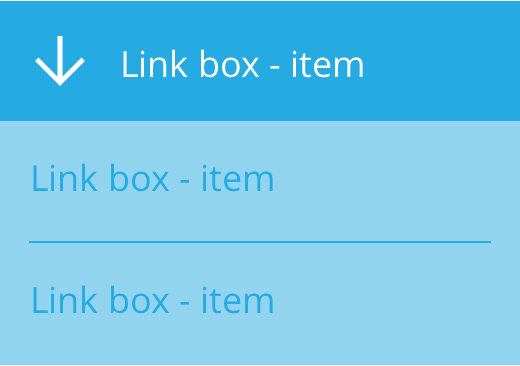
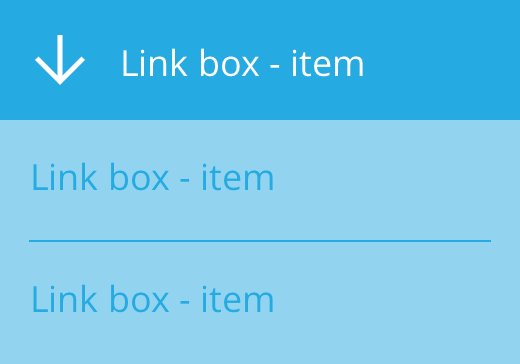
Boxes edited ( white gap at the top )

diff --git a/Components/LinkBoxes/index.html b/Components/LinkBoxes/index.html
@@ -1559,7 +1559,7 @@ var I18N = {},
     init.prototype = SMApp.fn;
     window.SMApp = SMApp;
 })(window);
-$(function(){ SMApp({"scale":"1","unit":"px","colorFormat":"color-hex","artboards":[{"layers":[{"objectID":"6D6226BD-8020-4878-B247-6483B73442A6","type":"symbol","name":"components/Link-box/group Copy 2","rect":{"x":0,"y":0,"width":260,"height":183},"rotation":0,"radius":0,"borders":[],"fills":[],"shadows":[],"opacity":1,"styleName":""},{"objectID":"C5EB7C13-B1BD-42A7-8875-49782F7475CE","type":"symbol","name":"components/Link-box/header","rect":{"x":0,"y":0,"width":260,"height":61},"rotation":0,"radius":0,"borders":[],"fills":[],"shadows":[],"opacity":1,"styleName":""},{"objectID":"8EC150BD-1D53-47E6-B358-56D3957D0FED","type":"shape","name":"Rectangle","rect":{"x":0,"y":0.5,"width":260,"height":60},"rotation":0,"radius":0,"borders":[],"fills":[{"fillType":"color","color":{"r":37,"g":170,"b":225,"a":1,"color-hex":"#25AAE1 100%","argb-hex":"#FF25AAE1","css-rgba":"rgba(37,170,225,1)","ui-color":"(r:0.15 g:0.67 b:0.88 a:1.00)"}}],"shadows":[],"opacity":1,"styleName":"","css":["background: #25AAE1;"]},{"objectID":"3DD2D5CE-410A-4095-A5A0-37AC6463F0B1","type":"symbol","name":"components/Link-box/elements/arrow-down","rect":{"x":0,"y":0,"width":60,"height":61},"rotation":0,"radius":0,"borders":[],"fills":[],"shadows":[],"opacity":1,"styleName":""},{"objectID":"A3AF6A19-A317-46BC-856E-641ECDDB7B21","type":"shape","name":"Rectangle Copy","rect":{"x":0,"y":0.5,"width":60,"height":60},"rotation":0,"radius":0,"borders":[],"fills":[{"fillType":"color","color":{"r":37,"g":170,"b":225,"a":1,"color-hex":"#25AAE1 100%","argb-hex":"#FF25AAE1","css-rgba":"rgba(37,170,225,1)","ui-color":"(r:0.15 g:0.67 b:0.88 a:1.00)"}}],"shadows":[],"opacity":1,"styleName":"","css":["background: #25AAE1;"]},{"objectID":"B68DFD09-DB6E-46FD-B8FC-8312ADC91D66","type":"symbol","name":"icons/icon-instances/60x60/square","rect":{"x":0,"y":0.5,"width":60,"height":60},"rotation":0,"radius":0,"borders":[],"fills":[],"shadows":[],"opacity":1,"styleName":""},{"objectID":"2F773821-5D28-45EB-AFAC-6B049A236506","type":"shape","name":"Rectangle","rect":{"x":0,"y":0.5,"width":60,"height":60},"rotation":0,"radius":0,"borders":[],"fills":[],"shadows":[],"opacity":1,"styleName":""},{"objectID":"BDBD5810-DBD5-428E-B394-497E0E0F0942","type":"symbol","name":"icons/down-arrow/white","rect":{"x":15,"y":15.5,"width":30,"height":30},"rotation":0,"radius":0,"borders":[],"fills":[],"shadows":[],"opacity":1,"styleName":""},{"objectID":"B092C542-AF82-495E-A9F5-BE4580D4574A","type":"shape","name":"Rectangle","rect":{"x":15,"y":15.5,"width":30,"height":30},"rotation":0,"radius":0,"borders":[],"fills":[],"shadows":[],"opacity":1,"styleName":""},{"objectID":"F60D8A42-9860-419F-8013-17ED0B54A1EC","type":"shape","name":"Shape","rect":{"x":17.5,"y":18,"width":25,"height":25},"rotation":0,"radius":0,"borders":[],"fills":[{"fillType":"color","color":{"r":255,"g":255,"b":255,"a":1,"color-hex":"#FFFFFF 100%","argb-hex":"#FFFFFFFF","css-rgba":"rgba(255,255,255,1)","ui-color":"(r:1.00 g:1.00 b:1.00 a:1.00)"}}],"shadows":[],"opacity":1,"styleName":"","css":["background: #FFFFFF;"]},{"objectID":"BD713D90-90A4-458C-B1E5-5B7C13CEB2CD","type":"text","name":"Link box - item Copy","rect":{"x":60,"y":19.5,"width":123,"height":24},"rotation":0,"radius":0,"borders":[],"fills":[],"shadows":[],"opacity":1,"styleName":"","content":"Link box - item","color":{"r":255,"g":255,"b":255,"a":1,"color-hex":"#FFFFFF 100%","argb-hex":"#FFFFFFFF","css-rgba":"rgba(255,255,255,1)","ui-color":"(r:1.00 g:1.00 b:1.00 a:1.00)"},"fontSize":18,"fontFace":"OpenSans","textAlign":"left","letterSpacing":0,"lineHeight":24,"css":["font-family: OpenSans;","font-size: 18px;","color: #FFFFFF;","text-align: left;"]},{"objectID":"CD50A4B3-1AAA-4AB9-8480-E28DAD59C8BE","type":"symbol","name":"components/Link-box/link-item","rect":{"x":0,"y":60.5,"width":260,"height":61},"rotation":0,"radius":0,"borders":[],"fills":[],"shadows":[],"opacity":1,"styleName":""},{"objectID":"FEB8A232-F161-4B3F-A990-083F49340617","type":"shape","name":"Rectangle Copy 2","rect":{"x":0,"y":60.5,"width":260,"height":61},"rotation":0,"radius":0,"borders":[],"fills":[{"fillType":"color","color":{"r":37,"g":170,"b":225,"a":0.5,"color-hex":"#25AAE1 50%","argb-hex":"#8025AAE1","css-rgba":"rgba(37,170,225,0.5)","ui-color":"(r:0.15 g:0.67 b:0.88 a:0.50)"}}],"shadows":[],"opacity":1,"styleName":"","css":["background: rgba(37,170,225,0.50);"]},{"objectID":"777B4841-286B-47D8-9CBD-8487571B6F0C","type":"text","name":"Link box - item","rect":{"x":15,"y":76.5,"width":230,"height":24},"rotation":0,"radius":0,"borders":[],"fills":[],"shadows":[],"opacity":1,"styleName":"","content":"No links","color":{"r":37,"g":170,"b":225,"a":1,"color-hex":"#25AAE1 100%","argb-hex":"#FF25AAE1","css-rgba":"rgba(37,170,225,1)","ui-color":"(r:0.15 g:0.67 b:0.88 a:1.00)"},"fontSize":18,"fontFace":"OpenSans","textAlign":"left","letterSpacing":0,"lineHeight":24,"css":["font-family: OpenSans;","font-size: 18px;","color: #25AAE1;","text-align: left;"]}],"notes":[],"pageName":"Component Categories","pageObjectID":"0FE840BB-1399-40D2-B20B-E6BC44B8C328","name":"No Links","slug":"component-categories-no-links","objectID":"53BD805B-F262-4D40-B6D7-87381C28A236","width":260,"height":183,"imagePath":"preview/component-categories-no-links.png"},{"layers":[{"objectID":"6D6226BD-8020-4878-B247-6483B73442A6","type":"symbol","name":"components/Link-box/group Copy","rect":{"x":0,"y":0,"width":260,"height":183},"rotation":0,"radius":0,"borders":[],"fills":[],"shadows":[],"opacity":1,"styleName":""},{"objectID":"C5EB7C13-B1BD-42A7-8875-49782F7475CE","type":"symbol","name":"components/Link-box/header","rect":{"x":0,"y":0,"width":260,"height":61},"rotation":0,"radius":0,"borders":[],"fills":[],"shadows":[],"opacity":1,"styleName":""},{"objectID":"8EC150BD-1D53-47E6-B358-56D3957D0FED","type":"shape","name":"Rectangle","rect":{"x":0,"y":0.5,"width":260,"height":60},"rotation":0,"radius":0,"borders":[],"fills":[{"fillType":"color","color":{"r":37,"g":170,"b":225,"a":1,"color-hex":"#25AAE1 100%","argb-hex":"#FF25AAE1","css-rgba":"rgba(37,170,225,1)","ui-color":"(r:0.15 g:0.67 b:0.88 a:1.00)"}}],"shadows":[],"opacity":1,"styleName":"","css":["background: #25AAE1;"]},{"objectID":"3DD2D5CE-410A-4095-A5A0-37AC6463F0B1","type":"symbol","name":"components/Link-box/elements/arrow-down","rect":{"x":0,"y":0,"width":60,"height":61},"rotation":0,"radius":0,"borders":[],"fills":[],"shadows":[],"opacity":1,"styleName":""},{"objectID":"A3AF6A19-A317-46BC-856E-641ECDDB7B21","type":"shape","name":"Rectangle Copy","rect":{"x":0,"y":0.5,"width":60,"height":60},"rotation":0,"radius":0,"borders":[],"fills":[{"fillType":"color","color":{"r":37,"g":170,"b":225,"a":1,"color-hex":"#25AAE1 100%","argb-hex":"#FF25AAE1","css-rgba":"rgba(37,170,225,1)","ui-color":"(r:0.15 g:0.67 b:0.88 a:1.00)"}}],"shadows":[],"opacity":1,"styleName":"","css":["background: #25AAE1;"]},{"objectID":"B68DFD09-DB6E-46FD-B8FC-8312ADC91D66","type":"symbol","name":"icons/icon-instances/60x60/square","rect":{"x":0,"y":0.5,"width":60,"height":60},"rotation":0,"radius":0,"borders":[],"fills":[],"shadows":[],"opacity":1,"styleName":""},{"objectID":"2F773821-5D28-45EB-AFAC-6B049A236506","type":"shape","name":"Rectangle","rect":{"x":0,"y":0.5,"width":60,"height":60},"rotation":0,"radius":0,"borders":[],"fills":[],"shadows":[],"opacity":1,"styleName":""},{"objectID":"BDBD5810-DBD5-428E-B394-497E0E0F0942","type":"symbol","name":"icons/down-arrow/white","rect":{"x":15,"y":15.5,"width":30,"height":30},"rotation":0,"radius":0,"borders":[],"fills":[],"shadows":[],"opacity":1,"styleName":""},{"objectID":"B092C542-AF82-495E-A9F5-BE4580D4574A","type":"shape","name":"Rectangle","rect":{"x":15,"y":15.5,"width":30,"height":30},"rotation":0,"radius":0,"borders":[],"fills":[],"shadows":[],"opacity":1,"styleName":""},{"objectID":"F60D8A42-9860-419F-8013-17ED0B54A1EC","type":"shape","name":"Shape","rect":{"x":17.5,"y":18,"width":25,"height":25},"rotation":0,"radius":0,"borders":[],"fills":[{"fillType":"color","color":{"r":255,"g":255,"b":255,"a":1,"color-hex":"#FFFFFF 100%","argb-hex":"#FFFFFFFF","css-rgba":"rgba(255,255,255,1)","ui-color":"(r:1.00 g:1.00 b:1.00 a:1.00)"}}],"shadows":[],"opacity":1,"styleName":"","css":["background: #FFFFFF;"]},{"objectID":"BD713D90-90A4-458C-B1E5-5B7C13CEB2CD","type":"text","name":"Link box - item Copy","rect":{"x":60,"y":19.5,"width":123,"height":24},"rotation":0,"radius":0,"borders":[],"fills":[],"shadows":[],"opacity":1,"styleName":"","content":"Link box - item","color":{"r":255,"g":255,"b":255,"a":1,"color-hex":"#FFFFFF 100%","argb-hex":"#FFFFFFFF","css-rgba":"rgba(255,255,255,1)","ui-color":"(r:1.00 g:1.00 b:1.00 a:1.00)"},"fontSize":18,"fontFace":"OpenSans","textAlign":"left","letterSpacing":0,"lineHeight":24,"css":["font-family: OpenSans;","font-size: 18px;","color: #FFFFFF;","text-align: left;"]},{"objectID":"CD50A4B3-1AAA-4AB9-8480-E28DAD59C8BE","type":"symbol","name":"components/Link-box/link-item","rect":{"x":0,"y":60.5,"width":260,"height":61},"rotation":0,"radius":0,"borders":[],"fills":[],"shadows":[],"opacity":1,"styleName":""},{"objectID":"FEB8A232-F161-4B3F-A990-083F49340617","type":"shape","name":"Rectangle Copy 2","rect":{"x":0,"y":60.5,"width":260,"height":61},"rotation":0,"radius":0,"borders":[],"fills":[{"fillType":"color","color":{"r":37,"g":170,"b":225,"a":0.5,"color-hex":"#25AAE1 50%","argb-hex":"#8025AAE1","css-rgba":"rgba(37,170,225,0.5)","ui-color":"(r:0.15 g:0.67 b:0.88 a:0.50)"}}],"shadows":[],"opacity":1,"styleName":"","css":["background: rgba(37,170,225,0.50);"]},{"objectID":"777B4841-286B-47D8-9CBD-8487571B6F0C","type":"text","name":"Link box - item","rect":{"x":15,"y":76.5,"width":230,"height":24},"rotation":0,"radius":0,"borders":[],"fills":[],"shadows":[],"opacity":1,"styleName":"","content":"Link box - item","color":{"r":37,"g":170,"b":225,"a":1,"color-hex":"#25AAE1 100%","argb-hex":"#FF25AAE1","css-rgba":"rgba(37,170,225,1)","ui-color":"(r:0.15 g:0.67 b:0.88 a:1.00)"},"fontSize":18,"fontFace":"OpenSans","textAlign":"left","letterSpacing":0,"lineHeight":24,"css":["font-family: OpenSans;","font-size: 18px;","color: #25AAE1;","text-align: left;"]},{"objectID":"E30F0F25-7E04-4CDF-A8A2-E839D3D2F57D","type":"symbol","name":"components/Link-box/elements/border-bottom","rect":{"x":15,"y":120.5,"width":231,"height":1},"rotation":0,"radius":0,"borders":[],"fills":[],"shadows":[],"opacity":1,"styleName":""},{"objectID":"9187AF3F-B039-4112-906B-99D2486CE532","type":"shape","name":"Line 4","rect":{"x":15,"y":120.5,"width":231,"height":1},"rotation":0,"radius":0,"borders":[{"fillType":"color","position":"center","thickness":1,"color":{"r":37,"g":170,"b":225,"a":1,"color-hex":"#25AAE1 100%","argb-hex":"#FF25AAE1","css-rgba":"rgba(37,170,225,1)","ui-color":"(r:0.15 g:0.67 b:0.88 a:1.00)"}}],"fills":[],"shadows":[],"opacity":1,"styleName":"","css":["border: 1px solid #25AAE1;"]},{"objectID":"CD50A4B3-1AAA-4AB9-8480-E28DAD59C8BE","type":"symbol","name":"components/Link-box/link-item Copy","rect":{"x":0,"y":121.5,"width":260,"height":61},"rotation":0,"radius":0,"borders":[],"fills":[],"shadows":[],"opacity":1,"styleName":""},{"objectID":"FEB8A232-F161-4B3F-A990-083F49340617","type":"shape","name":"Rectangle Copy 2","rect":{"x":0,"y":121.5,"width":260,"height":61},"rotation":0,"radius":0,"borders":[],"fills":[{"fillType":"color","color":{"r":37,"g":170,"b":225,"a":0.5,"color-hex":"#25AAE1 50%","argb-hex":"#8025AAE1","css-rgba":"rgba(37,170,225,0.5)","ui-color":"(r:0.15 g:0.67 b:0.88 a:0.50)"}}],"shadows":[],"opacity":1,"styleName":"","css":["background: rgba(37,170,225,0.50);"]},{"objectID":"777B4841-286B-47D8-9CBD-8487571B6F0C","type":"text","name":"Link box - item","rect":{"x":15,"y":137.5,"width":230,"height":24},"rotation":0,"radius":0,"borders":[],"fills":[],"shadows":[],"opacity":1,"styleName":"","content":"Link box - item","color":{"r":37,"g":170,"b":225,"a":1,"color-hex":"#25AAE1 100%","argb-hex":"#FF25AAE1","css-rgba":"rgba(37,170,225,1)","ui-color":"(r:0.15 g:0.67 b:0.88 a:1.00)"},"fontSize":18,"fontFace":"OpenSans","textAlign":"left","letterSpacing":0,"lineHeight":24,"css":["font-family: OpenSans;","font-size: 18px;","color: #25AAE1;","text-align: left;"]},{"objectID":"E07CEE94-AEF8-49E9-9C30-054DD2A996FE","type":"symbol","name":"Cursor/Hover","rect":{"x":19,"y":91,"width":19,"height":24},"rotation":0,"radius":0,"borders":[],"fills":[],"shadows":[],"opacity":1,"styleName":""}],"notes":[],"pageName":"Component Categories","pageObjectID":"0FE840BB-1399-40D2-B20B-E6BC44B8C328","name":"Hover","slug":"component-categories-hover","objectID":"12A9EA34-A121-463A-8916-AAE83C043A0A","width":260,"height":183,"imagePath":"preview/component-categories-hover.png"},{"layers":[{"objectID":"6D6226BD-8020-4878-B247-6483B73442A6","type":"symbol","name":"components/Link-box/group","rect":{"x":0,"y":0,"width":260,"height":183},"rotation":0,"radius":0,"borders":[],"fills":[],"shadows":[],"opacity":1,"styleName":""},{"objectID":"C5EB7C13-B1BD-42A7-8875-49782F7475CE","type":"symbol","name":"components/Link-box/header","rect":{"x":0,"y":0,"width":260,"height":61},"rotation":0,"radius":0,"borders":[],"fills":[],"shadows":[],"opacity":1,"styleName":""},{"objectID":"8EC150BD-1D53-47E6-B358-56D3957D0FED","type":"shape","name":"Rectangle","rect":{"x":0,"y":0.5,"width":260,"height":60},"rotation":0,"radius":0,"borders":[],"fills":[{"fillType":"color","color":{"r":37,"g":170,"b":225,"a":1,"color-hex":"#25AAE1 100%","argb-hex":"#FF25AAE1","css-rgba":"rgba(37,170,225,1)","ui-color":"(r:0.15 g:0.67 b:0.88 a:1.00)"}}],"shadows":[],"opacity":1,"styleName":"","css":["background: #25AAE1;"]},{"objectID":"3DD2D5CE-410A-4095-A5A0-37AC6463F0B1","type":"symbol","name":"components/Link-box/elements/arrow-down","rect":{"x":0,"y":0,"width":60,"height":61},"rotation":0,"radius":0,"borders":[],"fills":[],"shadows":[],"opacity":1,"styleName":""},{"objectID":"A3AF6A19-A317-46BC-856E-641ECDDB7B21","type":"shape","name":"Rectangle Copy","rect":{"x":0,"y":0.5,"width":60,"height":60},"rotation":0,"radius":0,"borders":[],"fills":[{"fillType":"color","color":{"r":37,"g":170,"b":225,"a":1,"color-hex":"#25AAE1 100%","argb-hex":"#FF25AAE1","css-rgba":"rgba(37,170,225,1)","ui-color":"(r:0.15 g:0.67 b:0.88 a:1.00)"}}],"shadows":[],"opacity":1,"styleName":"","css":["background: #25AAE1;"]},{"objectID":"B68DFD09-DB6E-46FD-B8FC-8312ADC91D66","type":"symbol","name":"icons/icon-instances/60x60/square","rect":{"x":0,"y":0.5,"width":60,"height":60},"rotation":0,"radius":0,"borders":[],"fills":[],"shadows":[],"opacity":1,"styleName":""},{"objectID":"2F773821-5D28-45EB-AFAC-6B049A236506","type":"shape","name":"Rectangle","rect":{"x":0,"y":0.5,"width":60,"height":60},"rotation":0,"radius":0,"borders":[],"fills":[],"shadows":[],"opacity":1,"styleName":""},{"objectID":"BDBD5810-DBD5-428E-B394-497E0E0F0942","type":"symbol","name":"icons/down-arrow/white","rect":{"x":15,"y":15.5,"width":30,"height":30},"rotation":0,"radius":0,"borders":[],"fills":[],"shadows":[],"opacity":1,"styleName":""},{"objectID":"B092C542-AF82-495E-A9F5-BE4580D4574A","type":"shape","name":"Rectangle","rect":{"x":15,"y":15.5,"width":30,"height":30},"rotation":0,"radius":0,"borders":[],"fills":[],"shadows":[],"opacity":1,"styleName":""},{"objectID":"F60D8A42-9860-419F-8013-17ED0B54A1EC","type":"shape","name":"Shape","rect":{"x":17.5,"y":18,"width":25,"height":25},"rotation":0,"radius":0,"borders":[],"fills":[{"fillType":"color","color":{"r":255,"g":255,"b":255,"a":1,"color-hex":"#FFFFFF 100%","argb-hex":"#FFFFFFFF","css-rgba":"rgba(255,255,255,1)","ui-color":"(r:1.00 g:1.00 b:1.00 a:1.00)"}}],"shadows":[],"opacity":1,"styleName":"","css":["background: #FFFFFF;"]},{"objectID":"BD713D90-90A4-458C-B1E5-5B7C13CEB2CD","type":"text","name":"Link box - item Copy","rect":{"x":60,"y":19.5,"width":123,"height":24},"rotation":0,"radius":0,"borders":[],"fills":[],"shadows":[],"opacity":1,"styleName":"","content":"Link box - item","color":{"r":255,"g":255,"b":255,"a":1,"color-hex":"#FFFFFF 100%","argb-hex":"#FFFFFFFF","css-rgba":"rgba(255,255,255,1)","ui-color":"(r:1.00 g:1.00 b:1.00 a:1.00)"},"fontSize":18,"fontFace":"OpenSans","textAlign":"left","letterSpacing":0,"lineHeight":24,"css":["font-family: OpenSans;","font-size: 18px;","color: #FFFFFF;","text-align: left;"]},{"objectID":"CD50A4B3-1AAA-4AB9-8480-E28DAD59C8BE","type":"symbol","name":"components/Link-box/link-item","rect":{"x":0,"y":60.5,"width":260,"height":61},"rotation":0,"radius":0,"borders":[],"fills":[],"shadows":[],"opacity":1,"styleName":""},{"objectID":"FEB8A232-F161-4B3F-A990-083F49340617","type":"shape","name":"Rectangle Copy 2","rect":{"x":0,"y":60.5,"width":260,"height":61},"rotation":0,"radius":0,"borders":[],"fills":[{"fillType":"color","color":{"r":37,"g":170,"b":225,"a":0.5,"color-hex":"#25AAE1 50%","argb-hex":"#8025AAE1","css-rgba":"rgba(37,170,225,0.5)","ui-color":"(r:0.15 g:0.67 b:0.88 a:0.50)"}}],"shadows":[],"opacity":1,"styleName":"","css":["background: rgba(37,170,225,0.50);"]},{"objectID":"777B4841-286B-47D8-9CBD-8487571B6F0C","type":"text","name":"Link box - item","rect":{"x":15,"y":76.5,"width":230,"height":24},"rotation":0,"radius":0,"borders":[],"fills":[],"shadows":[],"opacity":1,"styleName":"","content":"Link box - item","color":{"r":37,"g":170,"b":225,"a":1,"color-hex":"#25AAE1 100%","argb-hex":"#FF25AAE1","css-rgba":"rgba(37,170,225,1)","ui-color":"(r:0.15 g:0.67 b:0.88 a:1.00)"},"fontSize":18,"fontFace":"OpenSans","textAlign":"left","letterSpacing":0,"lineHeight":24,"css":["font-family: OpenSans;","font-size: 18px;","color: #25AAE1;","text-align: left;"]},{"objectID":"E30F0F25-7E04-4CDF-A8A2-E839D3D2F57D","type":"symbol","name":"components/Link-box/elements/border-bottom","rect":{"x":15,"y":120.5,"width":231,"height":1},"rotation":0,"radius":0,"borders":[],"fills":[],"shadows":[],"opacity":1,"styleName":""},{"objectID":"9187AF3F-B039-4112-906B-99D2486CE532","type":"shape","name":"Line 4","rect":{"x":15,"y":120.5,"width":231,"height":1},"rotation":0,"radius":0,"borders":[{"fillType":"color","position":"center","thickness":1,"color":{"r":37,"g":170,"b":225,"a":1,"color-hex":"#25AAE1 100%","argb-hex":"#FF25AAE1","css-rgba":"rgba(37,170,225,1)","ui-color":"(r:0.15 g:0.67 b:0.88 a:1.00)"}}],"fills":[],"shadows":[],"opacity":1,"styleName":"","css":["border: 1px solid #25AAE1;"]},{"objectID":"CD50A4B3-1AAA-4AB9-8480-E28DAD59C8BE","type":"symbol","name":"components/Link-box/link-item Copy","rect":{"x":0,"y":121.5,"width":260,"height":61},"rotation":0,"radius":0,"borders":[],"fills":[],"shadows":[],"opacity":1,"styleName":""},{"objectID":"FEB8A232-F161-4B3F-A990-083F49340617","type":"shape","name":"Rectangle Copy 2","rect":{"x":0,"y":121.5,"width":260,"height":61},"rotation":0,"radius":0,"borders":[],"fills":[{"fillType":"color","color":{"r":37,"g":170,"b":225,"a":0.5,"color-hex":"#25AAE1 50%","argb-hex":"#8025AAE1","css-rgba":"rgba(37,170,225,0.5)","ui-color":"(r:0.15 g:0.67 b:0.88 a:0.50)"}}],"shadows":[],"opacity":1,"styleName":"","css":["background: rgba(37,170,225,0.50);"]},{"objectID":"777B4841-286B-47D8-9CBD-8487571B6F0C","type":"text","name":"Link box - item","rect":{"x":15,"y":137.5,"width":230,"height":24},"rotation":0,"radius":0,"borders":[],"fills":[],"shadows":[],"opacity":1,"styleName":"","content":"Link box - item","color":{"r":37,"g":170,"b":225,"a":1,"color-hex":"#25AAE1 100%","argb-hex":"#FF25AAE1","css-rgba":"rgba(37,170,225,1)","ui-color":"(r:0.15 g:0.67 b:0.88 a:1.00)"},"fontSize":18,"fontFace":"OpenSans","textAlign":"left","letterSpacing":0,"lineHeight":24,"css":["font-family: OpenSans;","font-size: 18px;","color: #25AAE1;","text-align: left;"]}],"notes":[],"pageName":"Component Categories","pageObjectID":"0FE840BB-1399-40D2-B20B-E6BC44B8C328","name":"Default","slug":"component-categories-default","objectID":"C4E6FAFC-3AFF-462D-90F6-42A98E43508B","width":260,"height":183,"imagePath":"preview/component-categories-default.png"}],"slices":[],"colors":[]}) });
+$(function(){ SMApp({"scale":"1","unit":"px","colorFormat":"color-hex","artboards":[{"layers":[{"objectID":"6D6226BD-8020-4878-B247-6483B73442A6","type":"symbol","name":"components/Link-box/group Copy 2","rect":{"x":0,"y":0,"width":260,"height":182},"rotation":0,"radius":0,"borders":[],"fills":[],"shadows":[],"opacity":1,"styleName":""},{"objectID":"CD50A4B3-1AAA-4AB9-8480-E28DAD59C8BE","type":"symbol","name":"components/Link-box/link-item","rect":{"x":0,"y":60,"width":260,"height":61},"rotation":0,"radius":0,"borders":[],"fills":[],"shadows":[],"opacity":1,"styleName":""},{"objectID":"FEB8A232-F161-4B3F-A990-083F49340617","type":"shape","name":"Rectangle Copy 2","rect":{"x":0,"y":60,"width":260,"height":61},"rotation":0,"radius":0,"borders":[],"fills":[{"fillType":"color","color":{"r":37,"g":170,"b":225,"a":0.5,"color-hex":"#25AAE1 50%","argb-hex":"#8025AAE1","css-rgba":"rgba(37,170,225,0.5)","ui-color":"(r:0.15 g:0.67 b:0.88 a:0.50)"}}],"shadows":[],"opacity":1,"styleName":"","css":["background: rgba(37,170,225,0.50);"]},{"objectID":"777B4841-286B-47D8-9CBD-8487571B6F0C","type":"text","name":"Link box - item","rect":{"x":15,"y":76,"width":230,"height":24},"rotation":0,"radius":0,"borders":[],"fills":[],"shadows":[],"opacity":1,"styleName":"","content":"No Links","color":{"r":37,"g":170,"b":225,"a":1,"color-hex":"#25AAE1 100%","argb-hex":"#FF25AAE1","css-rgba":"rgba(37,170,225,1)","ui-color":"(r:0.15 g:0.67 b:0.88 a:1.00)"},"fontSize":18,"fontFace":"OpenSans","textAlign":"left","letterSpacing":0,"lineHeight":24,"css":["font-family: OpenSans;","font-size: 18px;","color: #25AAE1;","text-align: left;"]},{"objectID":"C5EB7C13-B1BD-42A7-8875-49782F7475CE","type":"symbol","name":"components/Link-box/header","rect":{"x":0,"y":-0.5,"width":260,"height":61},"rotation":0,"radius":0,"borders":[],"fills":[],"shadows":[],"opacity":1,"styleName":""},{"objectID":"8EC150BD-1D53-47E6-B358-56D3957D0FED","type":"shape","name":"Rectangle","rect":{"x":0,"y":0,"width":260,"height":60},"rotation":0,"radius":0,"borders":[],"fills":[{"fillType":"color","color":{"r":37,"g":170,"b":225,"a":1,"color-hex":"#25AAE1 100%","argb-hex":"#FF25AAE1","css-rgba":"rgba(37,170,225,1)","ui-color":"(r:0.15 g:0.67 b:0.88 a:1.00)"}}],"shadows":[],"opacity":1,"styleName":"","css":["background: #25AAE1;"]},{"objectID":"3DD2D5CE-410A-4095-A5A0-37AC6463F0B1","type":"symbol","name":"components/Link-box/elements/arrow-down","rect":{"x":0,"y":-0.5,"width":60,"height":61},"rotation":0,"radius":0,"borders":[],"fills":[],"shadows":[],"opacity":1,"styleName":""},{"objectID":"A3AF6A19-A317-46BC-856E-641ECDDB7B21","type":"shape","name":"Rectangle Copy","rect":{"x":0,"y":0,"width":60,"height":60},"rotation":0,"radius":0,"borders":[],"fills":[{"fillType":"color","color":{"r":37,"g":170,"b":225,"a":1,"color-hex":"#25AAE1 100%","argb-hex":"#FF25AAE1","css-rgba":"rgba(37,170,225,1)","ui-color":"(r:0.15 g:0.67 b:0.88 a:1.00)"}}],"shadows":[],"opacity":1,"styleName":"","css":["background: #25AAE1;"]},{"objectID":"B68DFD09-DB6E-46FD-B8FC-8312ADC91D66","type":"symbol","name":"icons/icon-instances/60x60/square","rect":{"x":0,"y":0,"width":60,"height":60},"rotation":0,"radius":0,"borders":[],"fills":[],"shadows":[],"opacity":1,"styleName":""},{"objectID":"2F773821-5D28-45EB-AFAC-6B049A236506","type":"shape","name":"Rectangle","rect":{"x":0,"y":0,"width":60,"height":60},"rotation":0,"radius":0,"borders":[],"fills":[],"shadows":[],"opacity":1,"styleName":""},{"objectID":"BDBD5810-DBD5-428E-B394-497E0E0F0942","type":"symbol","name":"icons/down-arrow/white","rect":{"x":15,"y":15,"width":30,"height":30},"rotation":0,"radius":0,"borders":[],"fills":[],"shadows":[],"opacity":1,"styleName":""},{"objectID":"B092C542-AF82-495E-A9F5-BE4580D4574A","type":"shape","name":"Rectangle","rect":{"x":15,"y":15,"width":30,"height":30},"rotation":0,"radius":0,"borders":[],"fills":[],"shadows":[],"opacity":1,"styleName":""},{"objectID":"F60D8A42-9860-419F-8013-17ED0B54A1EC","type":"shape","name":"Shape","rect":{"x":17.5,"y":17.5,"width":25,"height":25},"rotation":0,"radius":0,"borders":[],"fills":[{"fillType":"color","color":{"r":255,"g":255,"b":255,"a":1,"color-hex":"#FFFFFF 100%","argb-hex":"#FFFFFFFF","css-rgba":"rgba(255,255,255,1)","ui-color":"(r:1.00 g:1.00 b:1.00 a:1.00)"}}],"shadows":[],"opacity":1,"styleName":"","css":["background: #FFFFFF;"]},{"objectID":"BD713D90-90A4-458C-B1E5-5B7C13CEB2CD","type":"text","name":"Link box - item Copy","rect":{"x":60,"y":19,"width":123,"height":24},"rotation":0,"radius":0,"borders":[],"fills":[],"shadows":[],"opacity":1,"styleName":"","content":"Link box - item","color":{"r":255,"g":255,"b":255,"a":1,"color-hex":"#FFFFFF 100%","argb-hex":"#FFFFFFFF","css-rgba":"rgba(255,255,255,1)","ui-color":"(r:1.00 g:1.00 b:1.00 a:1.00)"},"fontSize":18,"fontFace":"OpenSans","textAlign":"left","letterSpacing":0,"lineHeight":24,"css":["font-family: OpenSans;","font-size: 18px;","color: #FFFFFF;","text-align: left;"]}],"notes":[],"pageName":"Component Categories","pageObjectID":"0FE840BB-1399-40D2-B20B-E6BC44B8C328","name":"No Links","slug":"component-categories-no-links","objectID":"53BD805B-F262-4D40-B6D7-87381C28A236","width":260,"height":182,"imagePath":"preview/component-categories-no-links.png"},{"layers":[{"objectID":"6D6226BD-8020-4878-B247-6483B73442A6","type":"symbol","name":"components/Link-box/group Copy","rect":{"x":0,"y":0,"width":260,"height":182},"rotation":0,"radius":0,"borders":[],"fills":[],"shadows":[],"opacity":1,"styleName":""},{"objectID":"CD50A4B3-1AAA-4AB9-8480-E28DAD59C8BE","type":"symbol","name":"components/Link-box/link-item","rect":{"x":0,"y":60,"width":260,"height":61},"rotation":0,"radius":0,"borders":[],"fills":[],"shadows":[],"opacity":1,"styleName":""},{"objectID":"FEB8A232-F161-4B3F-A990-083F49340617","type":"shape","name":"Rectangle Copy 2","rect":{"x":0,"y":60,"width":260,"height":61},"rotation":0,"radius":0,"borders":[],"fills":[{"fillType":"color","color":{"r":37,"g":170,"b":225,"a":0.5,"color-hex":"#25AAE1 50%","argb-hex":"#8025AAE1","css-rgba":"rgba(37,170,225,0.5)","ui-color":"(r:0.15 g:0.67 b:0.88 a:0.50)"}}],"shadows":[],"opacity":1,"styleName":"","css":["background: rgba(37,170,225,0.50);"]},{"objectID":"777B4841-286B-47D8-9CBD-8487571B6F0C","type":"text","name":"Link box - item","rect":{"x":15,"y":76,"width":230,"height":24},"rotation":0,"radius":0,"borders":[],"fills":[],"shadows":[],"opacity":1,"styleName":"","content":"Link box - item","color":{"r":37,"g":170,"b":225,"a":1,"color-hex":"#25AAE1 100%","argb-hex":"#FF25AAE1","css-rgba":"rgba(37,170,225,1)","ui-color":"(r:0.15 g:0.67 b:0.88 a:1.00)"},"fontSize":18,"fontFace":"OpenSans","textAlign":"left","letterSpacing":0,"lineHeight":24,"css":["font-family: OpenSans;","font-size: 18px;","color: #25AAE1;","text-align: left;"]},{"objectID":"E30F0F25-7E04-4CDF-A8A2-E839D3D2F57D","type":"symbol","name":"components/Link-box/elements/border-bottom","rect":{"x":15,"y":120,"width":231,"height":1},"rotation":0,"radius":0,"borders":[],"fills":[],"shadows":[],"opacity":1,"styleName":""},{"objectID":"9187AF3F-B039-4112-906B-99D2486CE532","type":"shape","name":"Line 4","rect":{"x":15,"y":120,"width":231,"height":1},"rotation":0,"radius":0,"borders":[{"fillType":"color","position":"center","thickness":1,"color":{"r":37,"g":170,"b":225,"a":1,"color-hex":"#25AAE1 100%","argb-hex":"#FF25AAE1","css-rgba":"rgba(37,170,225,1)","ui-color":"(r:0.15 g:0.67 b:0.88 a:1.00)"}}],"fills":[],"shadows":[],"opacity":1,"styleName":"","css":["border: 1px solid #25AAE1;"]},{"objectID":"C5EB7C13-B1BD-42A7-8875-49782F7475CE","type":"symbol","name":"components/Link-box/header","rect":{"x":0,"y":-0.5,"width":260,"height":61},"rotation":0,"radius":0,"borders":[],"fills":[],"shadows":[],"opacity":1,"styleName":""},{"objectID":"8EC150BD-1D53-47E6-B358-56D3957D0FED","type":"shape","name":"Rectangle","rect":{"x":0,"y":0,"width":260,"height":60},"rotation":0,"radius":0,"borders":[],"fills":[{"fillType":"color","color":{"r":37,"g":170,"b":225,"a":1,"color-hex":"#25AAE1 100%","argb-hex":"#FF25AAE1","css-rgba":"rgba(37,170,225,1)","ui-color":"(r:0.15 g:0.67 b:0.88 a:1.00)"}}],"shadows":[],"opacity":1,"styleName":"","css":["background: #25AAE1;"]},{"objectID":"3DD2D5CE-410A-4095-A5A0-37AC6463F0B1","type":"symbol","name":"components/Link-box/elements/arrow-down","rect":{"x":0,"y":-0.5,"width":60,"height":61},"rotation":0,"radius":0,"borders":[],"fills":[],"shadows":[],"opacity":1,"styleName":""},{"objectID":"A3AF6A19-A317-46BC-856E-641ECDDB7B21","type":"shape","name":"Rectangle Copy","rect":{"x":0,"y":0,"width":60,"height":60},"rotation":0,"radius":0,"borders":[],"fills":[{"fillType":"color","color":{"r":37,"g":170,"b":225,"a":1,"color-hex":"#25AAE1 100%","argb-hex":"#FF25AAE1","css-rgba":"rgba(37,170,225,1)","ui-color":"(r:0.15 g:0.67 b:0.88 a:1.00)"}}],"shadows":[],"opacity":1,"styleName":"","css":["background: #25AAE1;"]},{"objectID":"B68DFD09-DB6E-46FD-B8FC-8312ADC91D66","type":"symbol","name":"icons/icon-instances/60x60/square","rect":{"x":0,"y":0,"width":60,"height":60},"rotation":0,"radius":0,"borders":[],"fills":[],"shadows":[],"opacity":1,"styleName":""},{"objectID":"2F773821-5D28-45EB-AFAC-6B049A236506","type":"shape","name":"Rectangle","rect":{"x":0,"y":0,"width":60,"height":60},"rotation":0,"radius":0,"borders":[],"fills":[],"shadows":[],"opacity":1,"styleName":""},{"objectID":"BDBD5810-DBD5-428E-B394-497E0E0F0942","type":"symbol","name":"icons/down-arrow/white","rect":{"x":15,"y":15,"width":30,"height":30},"rotation":0,"radius":0,"borders":[],"fills":[],"shadows":[],"opacity":1,"styleName":""},{"objectID":"B092C542-AF82-495E-A9F5-BE4580D4574A","type":"shape","name":"Rectangle","rect":{"x":15,"y":15,"width":30,"height":30},"rotation":0,"radius":0,"borders":[],"fills":[],"shadows":[],"opacity":1,"styleName":""},{"objectID":"F60D8A42-9860-419F-8013-17ED0B54A1EC","type":"shape","name":"Shape","rect":{"x":17.5,"y":17.5,"width":25,"height":25},"rotation":0,"radius":0,"borders":[],"fills":[{"fillType":"color","color":{"r":255,"g":255,"b":255,"a":1,"color-hex":"#FFFFFF 100%","argb-hex":"#FFFFFFFF","css-rgba":"rgba(255,255,255,1)","ui-color":"(r:1.00 g:1.00 b:1.00 a:1.00)"}}],"shadows":[],"opacity":1,"styleName":"","css":["background: #FFFFFF;"]},{"objectID":"BD713D90-90A4-458C-B1E5-5B7C13CEB2CD","type":"text","name":"Link box - item Copy","rect":{"x":60,"y":19,"width":123,"height":24},"rotation":0,"radius":0,"borders":[],"fills":[],"shadows":[],"opacity":1,"styleName":"","content":"Link box - item","color":{"r":255,"g":255,"b":255,"a":1,"color-hex":"#FFFFFF 100%","argb-hex":"#FFFFFFFF","css-rgba":"rgba(255,255,255,1)","ui-color":"(r:1.00 g:1.00 b:1.00 a:1.00)"},"fontSize":18,"fontFace":"OpenSans","textAlign":"left","letterSpacing":0,"lineHeight":24,"css":["font-family: OpenSans;","font-size: 18px;","color: #FFFFFF;","text-align: left;"]},{"objectID":"CD50A4B3-1AAA-4AB9-8480-E28DAD59C8BE","type":"symbol","name":"components/Link-box/link-item Copy","rect":{"x":0,"y":121,"width":260,"height":61},"rotation":0,"radius":0,"borders":[],"fills":[],"shadows":[],"opacity":1,"styleName":""},{"objectID":"FEB8A232-F161-4B3F-A990-083F49340617","type":"shape","name":"Rectangle Copy 2","rect":{"x":0,"y":121,"width":260,"height":61},"rotation":0,"radius":0,"borders":[],"fills":[{"fillType":"color","color":{"r":37,"g":170,"b":225,"a":0.5,"color-hex":"#25AAE1 50%","argb-hex":"#8025AAE1","css-rgba":"rgba(37,170,225,0.5)","ui-color":"(r:0.15 g:0.67 b:0.88 a:0.50)"}}],"shadows":[],"opacity":1,"styleName":"","css":["background: rgba(37,170,225,0.50);"]},{"objectID":"777B4841-286B-47D8-9CBD-8487571B6F0C","type":"text","name":"Link box - item","rect":{"x":15,"y":137,"width":230,"height":24},"rotation":0,"radius":0,"borders":[],"fills":[],"shadows":[],"opacity":1,"styleName":"","content":"Link box - item","color":{"r":37,"g":170,"b":225,"a":1,"color-hex":"#25AAE1 100%","argb-hex":"#FF25AAE1","css-rgba":"rgba(37,170,225,1)","ui-color":"(r:0.15 g:0.67 b:0.88 a:1.00)"},"fontSize":18,"fontFace":"OpenSans","textAlign":"left","letterSpacing":0,"lineHeight":24,"css":["font-family: OpenSans;","font-size: 18px;","color: #25AAE1;","text-align: left;"]},{"objectID":"E07CEE94-AEF8-49E9-9C30-054DD2A996FE","type":"symbol","name":"Cursor/Hover","rect":{"x":19,"y":91,"width":19,"height":24},"rotation":0,"radius":0,"borders":[],"fills":[],"shadows":[],"opacity":1,"styleName":""}],"notes":[],"pageName":"Component Categories","pageObjectID":"0FE840BB-1399-40D2-B20B-E6BC44B8C328","name":"Hover","slug":"component-categories-hover","objectID":"12A9EA34-A121-463A-8916-AAE83C043A0A","width":260,"height":182,"imagePath":"preview/component-categories-hover.png"},{"layers":[{"objectID":"6D6226BD-8020-4878-B247-6483B73442A6","type":"symbol","name":"components/Link-box/group","rect":{"x":0,"y":0,"width":260,"height":182},"rotation":0,"radius":0,"borders":[],"fills":[],"shadows":[],"opacity":1,"styleName":""},{"objectID":"CD50A4B3-1AAA-4AB9-8480-E28DAD59C8BE","type":"symbol","name":"components/Link-box/link-item","rect":{"x":0,"y":60,"width":260,"height":61},"rotation":0,"radius":0,"borders":[],"fills":[],"shadows":[],"opacity":1,"styleName":""},{"objectID":"FEB8A232-F161-4B3F-A990-083F49340617","type":"shape","name":"Rectangle Copy 2","rect":{"x":0,"y":60,"width":260,"height":61},"rotation":0,"radius":0,"borders":[],"fills":[{"fillType":"color","color":{"r":37,"g":170,"b":225,"a":0.5,"color-hex":"#25AAE1 50%","argb-hex":"#8025AAE1","css-rgba":"rgba(37,170,225,0.5)","ui-color":"(r:0.15 g:0.67 b:0.88 a:0.50)"}}],"shadows":[],"opacity":1,"styleName":"","css":["background: rgba(37,170,225,0.50);"]},{"objectID":"777B4841-286B-47D8-9CBD-8487571B6F0C","type":"text","name":"Link box - item","rect":{"x":15,"y":76,"width":230,"height":24},"rotation":0,"radius":0,"borders":[],"fills":[],"shadows":[],"opacity":1,"styleName":"","content":"Link box - item","color":{"r":37,"g":170,"b":225,"a":1,"color-hex":"#25AAE1 100%","argb-hex":"#FF25AAE1","css-rgba":"rgba(37,170,225,1)","ui-color":"(r:0.15 g:0.67 b:0.88 a:1.00)"},"fontSize":18,"fontFace":"OpenSans","textAlign":"left","letterSpacing":0,"lineHeight":24,"css":["font-family: OpenSans;","font-size: 18px;","color: #25AAE1;","text-align: left;"]},{"objectID":"E30F0F25-7E04-4CDF-A8A2-E839D3D2F57D","type":"symbol","name":"components/Link-box/elements/border-bottom","rect":{"x":15,"y":120,"width":231,"height":1},"rotation":0,"radius":0,"borders":[],"fills":[],"shadows":[],"opacity":1,"styleName":""},{"objectID":"9187AF3F-B039-4112-906B-99D2486CE532","type":"shape","name":"Line 4","rect":{"x":15,"y":120,"width":231,"height":1},"rotation":0,"radius":0,"borders":[{"fillType":"color","position":"center","thickness":1,"color":{"r":37,"g":170,"b":225,"a":1,"color-hex":"#25AAE1 100%","argb-hex":"#FF25AAE1","css-rgba":"rgba(37,170,225,1)","ui-color":"(r:0.15 g:0.67 b:0.88 a:1.00)"}}],"fills":[],"shadows":[],"opacity":1,"styleName":"","css":["border: 1px solid #25AAE1;"]},{"objectID":"C5EB7C13-B1BD-42A7-8875-49782F7475CE","type":"symbol","name":"components/Link-box/header","rect":{"x":0,"y":-0.5,"width":260,"height":61},"rotation":0,"radius":0,"borders":[],"fills":[],"shadows":[],"opacity":1,"styleName":""},{"objectID":"8EC150BD-1D53-47E6-B358-56D3957D0FED","type":"shape","name":"Rectangle","rect":{"x":0,"y":0,"width":260,"height":60},"rotation":0,"radius":0,"borders":[],"fills":[{"fillType":"color","color":{"r":37,"g":170,"b":225,"a":1,"color-hex":"#25AAE1 100%","argb-hex":"#FF25AAE1","css-rgba":"rgba(37,170,225,1)","ui-color":"(r:0.15 g:0.67 b:0.88 a:1.00)"}}],"shadows":[],"opacity":1,"styleName":"","css":["background: #25AAE1;"]},{"objectID":"3DD2D5CE-410A-4095-A5A0-37AC6463F0B1","type":"symbol","name":"components/Link-box/elements/arrow-down","rect":{"x":0,"y":-0.5,"width":60,"height":61},"rotation":0,"radius":0,"borders":[],"fills":[],"shadows":[],"opacity":1,"styleName":""},{"objectID":"A3AF6A19-A317-46BC-856E-641ECDDB7B21","type":"shape","name":"Rectangle Copy","rect":{"x":0,"y":0,"width":60,"height":60},"rotation":0,"radius":0,"borders":[],"fills":[{"fillType":"color","color":{"r":37,"g":170,"b":225,"a":1,"color-hex":"#25AAE1 100%","argb-hex":"#FF25AAE1","css-rgba":"rgba(37,170,225,1)","ui-color":"(r:0.15 g:0.67 b:0.88 a:1.00)"}}],"shadows":[],"opacity":1,"styleName":"","css":["background: #25AAE1;"]},{"objectID":"B68DFD09-DB6E-46FD-B8FC-8312ADC91D66","type":"symbol","name":"icons/icon-instances/60x60/square","rect":{"x":0,"y":0,"width":60,"height":60},"rotation":0,"radius":0,"borders":[],"fills":[],"shadows":[],"opacity":1,"styleName":""},{"objectID":"2F773821-5D28-45EB-AFAC-6B049A236506","type":"shape","name":"Rectangle","rect":{"x":0,"y":0,"width":60,"height":60},"rotation":0,"radius":0,"borders":[],"fills":[],"shadows":[],"opacity":1,"styleName":""},{"objectID":"BDBD5810-DBD5-428E-B394-497E0E0F0942","type":"symbol","name":"icons/down-arrow/white","rect":{"x":15,"y":15,"width":30,"height":30},"rotation":0,"radius":0,"borders":[],"fills":[],"shadows":[],"opacity":1,"styleName":""},{"objectID":"B092C542-AF82-495E-A9F5-BE4580D4574A","type":"shape","name":"Rectangle","rect":{"x":15,"y":15,"width":30,"height":30},"rotation":0,"radius":0,"borders":[],"fills":[],"shadows":[],"opacity":1,"styleName":""},{"objectID":"F60D8A42-9860-419F-8013-17ED0B54A1EC","type":"shape","name":"Shape","rect":{"x":17.5,"y":17.5,"width":25,"height":25},"rotation":0,"radius":0,"borders":[],"fills":[{"fillType":"color","color":{"r":255,"g":255,"b":255,"a":1,"color-hex":"#FFFFFF 100%","argb-hex":"#FFFFFFFF","css-rgba":"rgba(255,255,255,1)","ui-color":"(r:1.00 g:1.00 b:1.00 a:1.00)"}}],"shadows":[],"opacity":1,"styleName":"","css":["background: #FFFFFF;"]},{"objectID":"BD713D90-90A4-458C-B1E5-5B7C13CEB2CD","type":"text","name":"Link box - item Copy","rect":{"x":60,"y":19,"width":123,"height":24},"rotation":0,"radius":0,"borders":[],"fills":[],"shadows":[],"opacity":1,"styleName":"","content":"Link box - item","color":{"r":255,"g":255,"b":255,"a":1,"color-hex":"#FFFFFF 100%","argb-hex":"#FFFFFFFF","css-rgba":"rgba(255,255,255,1)","ui-color":"(r:1.00 g:1.00 b:1.00 a:1.00)"},"fontSize":18,"fontFace":"OpenSans","textAlign":"left","letterSpacing":0,"lineHeight":24,"css":["font-family: OpenSans;","font-size: 18px;","color: #FFFFFF;","text-align: left;"]},{"objectID":"CD50A4B3-1AAA-4AB9-8480-E28DAD59C8BE","type":"symbol","name":"components/Link-box/link-item Copy","rect":{"x":0,"y":121,"width":260,"height":61},"rotation":0,"radius":0,"borders":[],"fills":[],"shadows":[],"opacity":1,"styleName":""},{"objectID":"FEB8A232-F161-4B3F-A990-083F49340617","type":"shape","name":"Rectangle Copy 2","rect":{"x":0,"y":121,"width":260,"height":61},"rotation":0,"radius":0,"borders":[],"fills":[{"fillType":"color","color":{"r":37,"g":170,"b":225,"a":0.5,"color-hex":"#25AAE1 50%","argb-hex":"#8025AAE1","css-rgba":"rgba(37,170,225,0.5)","ui-color":"(r:0.15 g:0.67 b:0.88 a:0.50)"}}],"shadows":[],"opacity":1,"styleName":"","css":["background: rgba(37,170,225,0.50);"]},{"objectID":"777B4841-286B-47D8-9CBD-8487571B6F0C","type":"text","name":"Link box - item","rect":{"x":15,"y":137,"width":230,"height":24},"rotation":0,"radius":0,"borders":[],"fills":[],"shadows":[],"opacity":1,"styleName":"","content":"Link box - item","color":{"r":37,"g":170,"b":225,"a":1,"color-hex":"#25AAE1 100%","argb-hex":"#FF25AAE1","css-rgba":"rgba(37,170,225,1)","ui-color":"(r:0.15 g:0.67 b:0.88 a:1.00)"},"fontSize":18,"fontFace":"OpenSans","textAlign":"left","letterSpacing":0,"lineHeight":24,"css":["font-family: OpenSans;","font-size: 18px;","color: #25AAE1;","text-align: left;"]}],"notes":[],"pageName":"Component Categories","pageObjectID":"0FE840BB-1399-40D2-B20B-E6BC44B8C328","name":"Default","slug":"component-categories-default","objectID":"C4E6FAFC-3AFF-462D-90F6-42A98E43508B","width":260,"height":182,"imagePath":"preview/component-categories-default.png"}],"slices":[],"colors":[]}) });
     -->
     </script>
   </head>
